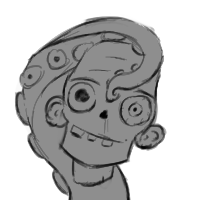
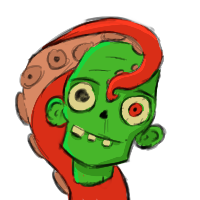
bodyparts

diff --git a/src/app/services/body-parts.service.ts b/src/app/services/body-parts.service.ts
@@ -9,63 +9,103 @@ export class BodyPartsService {
   parts: Part[] = [
     { type: partType.leg,
       image: 'assets/body/leg/legs_01.png',
-      name: 'leg_01'
+      name: 'Farmer_Pants'
     },
     { type: partType.leg,
       image: 'assets/body/leg/legs_02.png',
-      name: 'leg_02'
+      name: 'Somthins_Fishy'
     },
     { type: partType.leg,
       image: 'assets/body/leg/legs_03.png',
-      name: 'leg_03'
+      name: 'Restless_Trunks'
+    },
+    { type: partType.leg,
+      image: 'assets/body/leg/legs_04.png',
+      name: 'PlantLife'
+    },
+    { type: partType.leg,
+      image: 'assets/body/leg/legs_05.png',
+      name: 'Leg_Day'
+    },
+    { type: partType.leg,
+      image: 'assets/body/leg/legs_06.png',
+      name: 'Noodle_Knockout'
+    },
+    { type: partType.leg,
+      image: 'assets/body/leg/legs_07.png',
+      name: 'Grave_Justice'
     },
     { type: partType.arm,
-      image: 'assets/body/arm/left_arm_1.jpg',
-      name: 'left_arm_1'
+      image: 'assets/body/arm/arm_01.png',
+      name: 'Bad_Boy'
     },
     { type: partType.arm,
-      image: 'assets/body/arm/left_arm_2.jpg',
-      name: 'left_arm_2'
+      image: 'assets/body/arm/arm_02.png',
+      name: 'Fully_Tatted'
     },
     { type: partType.arm,
-      image: 'assets/body/arm/left_arm_3.jpg',
-      name: 'left_arm_3'
+      image: 'assets/body/arm/arm_03.png',
+      name: 'Tentacle_Triceps'
     },
     { type: partType.arm,
-      image: 'assets/body/arm/right_arm_1.jpg',
-      name: 'right_arm_1'
+      image: 'assets/body/arm/arm_04.png',
+      name: 'Water_Wing'
     },
     { type: partType.arm,
-      image: 'assets/body/arm/right_arm_2.jpg',
-      name: 'right_arm_2'
+      image: 'assets/body/arm/arm_05.png',
+      name: 'Snake_Game'
     },
     { type: partType.arm,
-      image: 'assets/body/arm/right_arm_3.jpg',
-      name: 'right_arm_3'
+      image: 'assets/body/arm/arm_06.png',
+      name: 'Pirhana_Plant'
+    },
+    { type: partType.arm,
+      image: 'assets/body/arm/arm_07.png',
+      name: 'Portal_Gun'
+    },
+    { type: partType.arm,
+      image: 'assets/body/arm/arm_08.png',
+      name: 'My_Spaget'
     },
     { type: partType.head,
-      image: 'assets/body/head/head_01.jpg',
-      name: 'head_01'
+      image: 'assets/body/head/Head_01.png',
+      name: 'Brainiac'
     },
     { type: partType.head,
-      image: 'assets/body/head/head_02.png',
-      name: 'head_02'
+      image: 'assets/body/head/Head_02.png',
+      name: 'Whata_Sucker'
     },
     { type: partType.head,
-      image: 'assets/body/head/head_03.jpg',
-      name: 'head_03'
+      image: 'assets/body/head/Head_03.png',
+      name: 'Gordon_Decay'
+    },
+    { type: partType.head,
+      image: 'assets/body/head/Head_04.png',
+      name: 'Cooky_Codger'
+    },
+    { type: partType.head,
+      image: 'assets/body/head/Head_05.png',
+      name: 'Angsty_Undead'
+    },
+    { type: partType.head,
+      image: 'assets/body/head/Head_06.png',
+      name: 'Zom_Ross'
     },
     { type: partType.torso,
-      image: 'assets/body/torso/body_01.jpg',
-      name: 'body_01'
+      image: 'assets/body/torso/body_01.png',
+      name: 'Puppy_Love'
     },
     { type: partType.torso,
-      image: 'assets/body/torso/body_02.jpg',
-      name: 'body_02'
+      image: 'assets/body/torso/body_02.png',
+      name: 'Calamari_Casket'
     },
     { type: partType.torso,
-      image: 'assets/body/torso/body_03.jpg',
-      name: 'body_03'
+      image: 'assets/body/torso/body_03.png',
+      name: 'See_Through'
+    },
+    { type: partType.torso,
+      image: 'assets/body/torso/body_04.png',
+      name: 'Happy_Sweater'
     },
   ];
   constructor() { }

diff --git a/src/app/game-screen/game-screen.component.scss b/src/app/game-screen/game-screen.component.scss
@@ -15,10 +15,6 @@
      on the container's size */
   background-size: cover;
 
-  /* Set a background color that will be displayed
-     while the background image is loading */
-  background-color: #464646;
-  background-image: url("https://via.placeholder.com/600x950.png?text=Parts");
 }
 
 .game-screen {
@@ -66,7 +62,7 @@
   height: 450px;
 }
 
-.right {
+.left {
   & img {
     transform: scaleX(-1);
   }

diff --git a/src/app/app-routing.module.ts b/src/app/app-routing.module.ts
@@ -44,7 +44,9 @@ const routes: Routes = [
   {
     path: 'ending',
     component: DialogScreenComponent,
-    data: { title: 'Dialog', dialog: [
+    data: { title: 'Dialog',
+    image: 'assets/backgrounds/couplepicture.jpg',
+     dialog: [
       'This is a nice zombie you might say?',
       'WROUUUNNG!'
     ], nextScreen: 'start' }

diff --git a/src/app/app.component.scss b/src/app/app.component.scss
@@ -18,7 +18,7 @@
   background-image: url("~/assets/backgrounds/coolbackground.jpg");
   border: none !important;
 }
-.dialog-background {
+.intro-background {
   background-position: center center;
 
   /* Background image doesn't tile */
